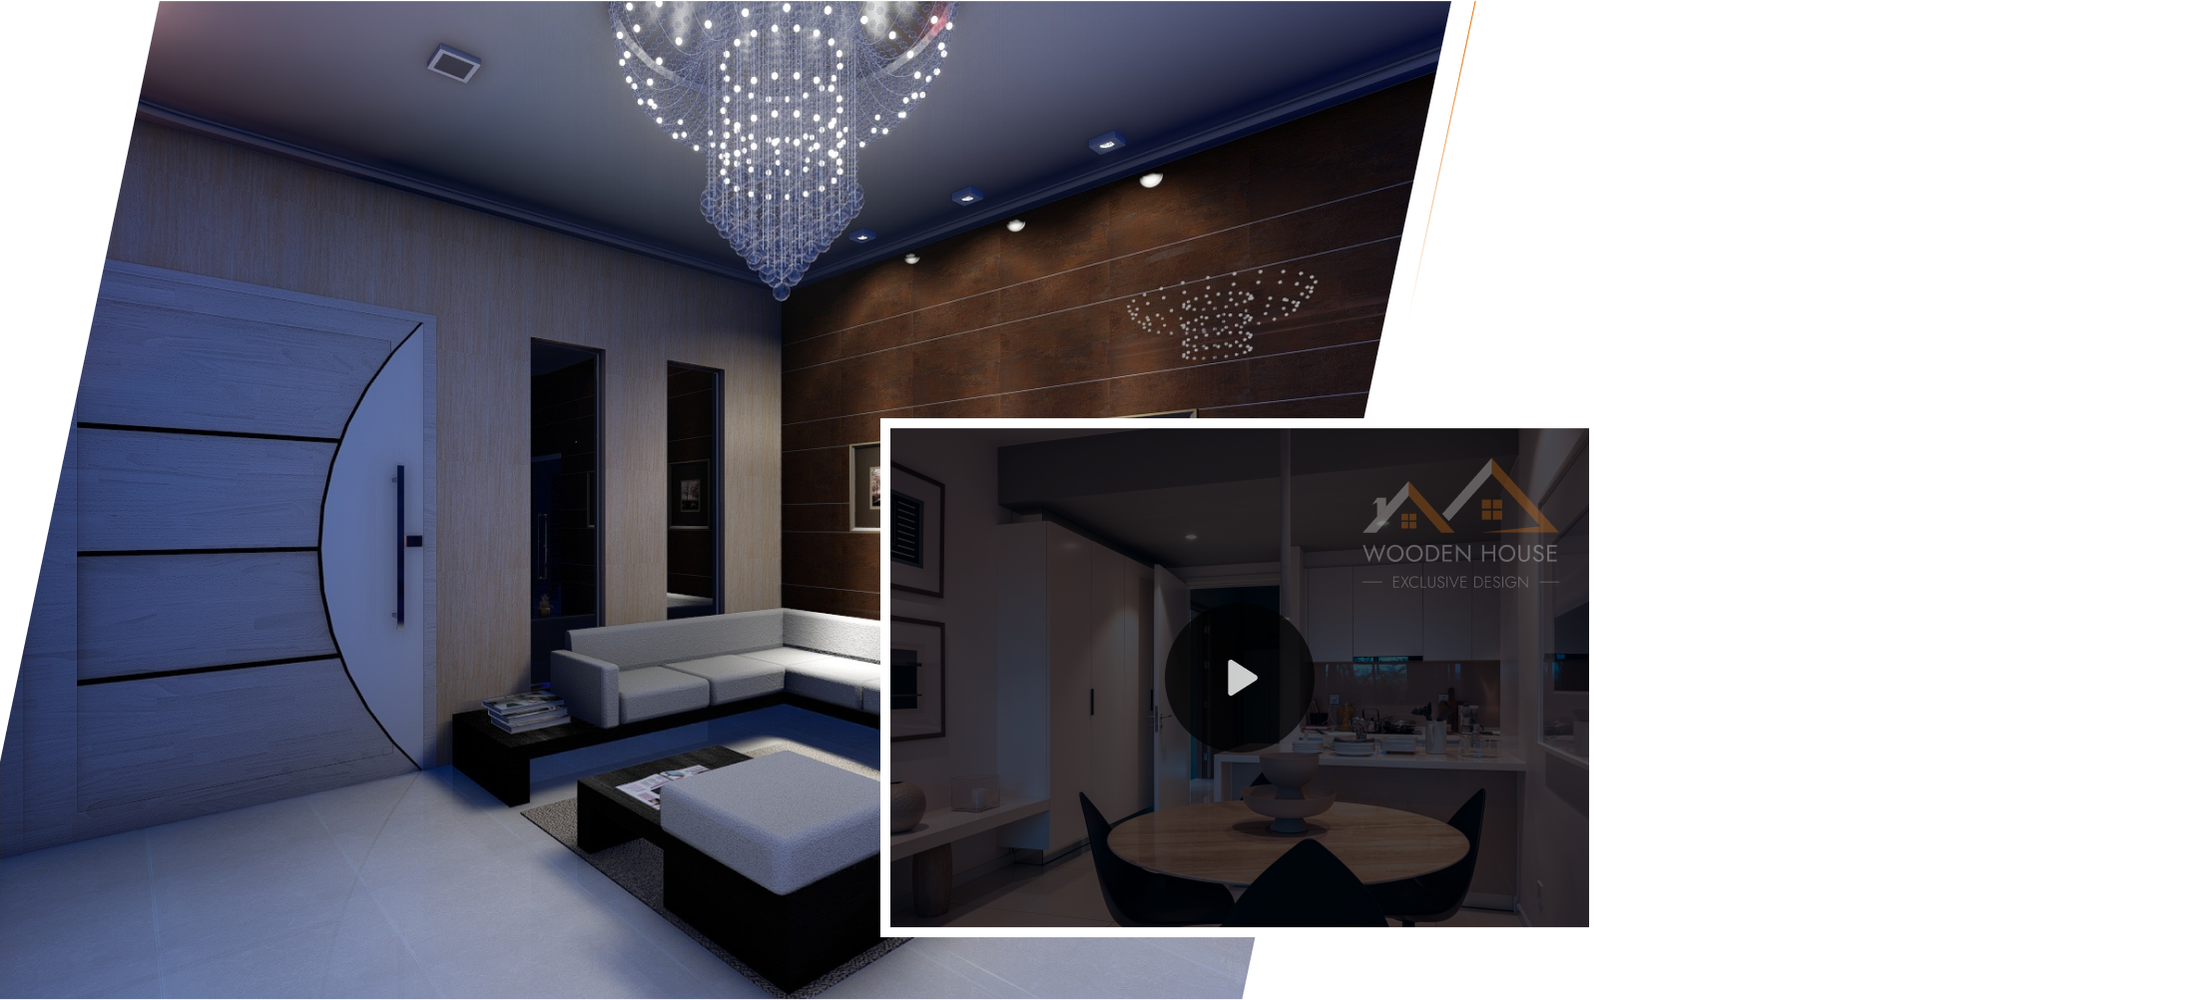
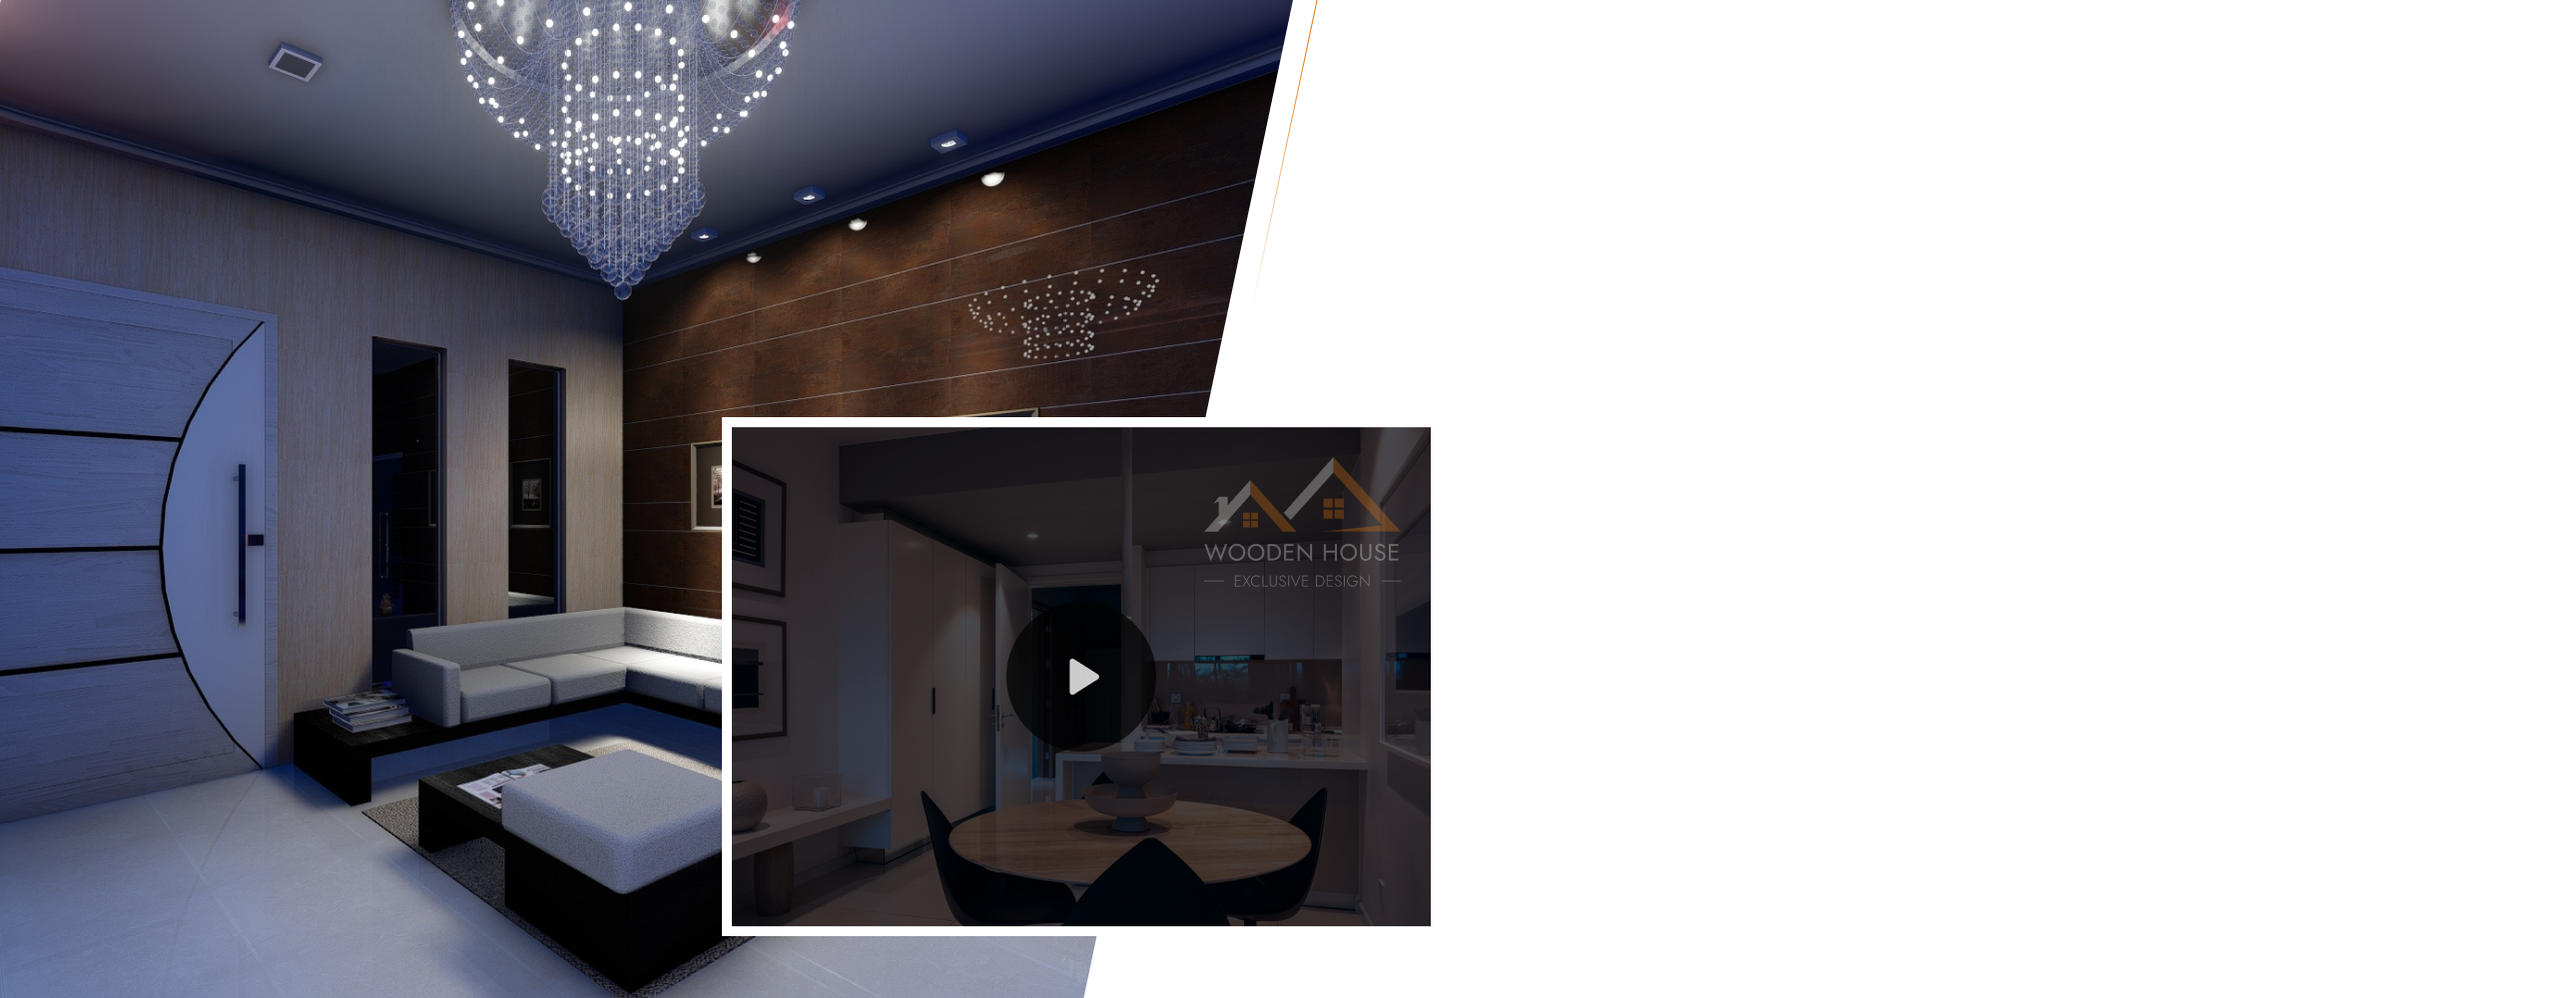
fixed about

diff --git a/dev/templates/about-company.html b/dev/templates/about-company.html
@@ -1,6 +1,6 @@
 <section class="about-company container">
     <div class="container-fluid bg-about">
-        <div class="about-conten-box col-4">
+        <div class="about-conten-box ">
             <h2 class="template-title">Wooden House</h2>
             <p>Wooden House is a company that was founded in 2009, with a mission to create exclusive furniture to order and provide exceptional apartment design services. Based on the outskirts of a major city, Wooden House has developed a reputation for delivering high-quality, personalized furniture and design services to clients all over the world.</p>
             <p>One of the standout features of Wooden House is their dedication to using only the finest materials in their furniture. They work with a range of woods, including mahogany, teak, and oak, to create bespoke pieces that are both functional and beautiful. The company's skilled craftsmen are experts in traditional woodworking techniques, and they take great pride in ensuring that each piece of furniture is of the highest quality.</p>

diff --git a/dev/sass/about-company.scss b/dev/sass/about-company.scss
@@ -5,16 +5,31 @@
     }
 }
 .about-conten-box {
+    width: 550px;
     margin: 0;
+    h2 {
+        text-align: center;
+        padding: 100px 0 40px;
+        color: #07080C;
+        font-size: 35px;
+        font-weight: 400;
+        letter-spacing: 0.7px;
+        text-transform: uppercase;
+    }
+    p {
+        margin-bottom: 30px;
+        color: #07080C;
+        font-size: 16px;
+        letter-spacing: 0.32px;
+    }
 }
 .bg-about {
     background: url('assets/img/about-bg.png');
     background-repeat: no-repeat;
     background-size: cover;
+    background-position: center center;
     width: 100%;
     height: 1000px;
-    margin-left: -350px;
-    margin-right: 600px;
    
     
 }
